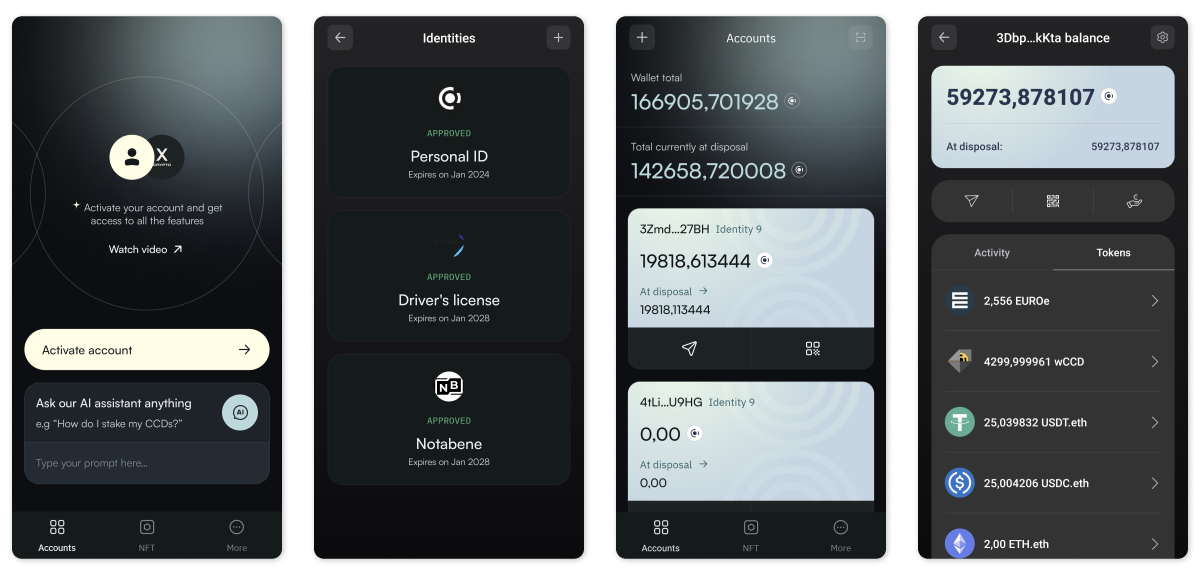
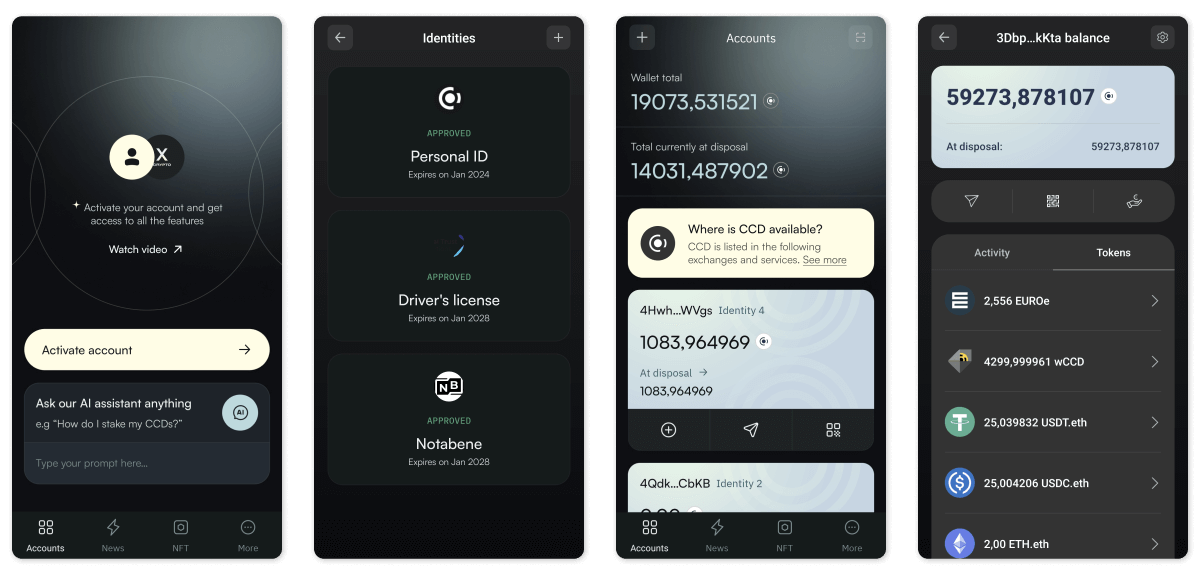
Merge release 1.2.0 (#110)
This is a release branch merge.
The packages are built from the "1.2.0" tag.

---------

diff --git a/CHANGELOG.md b/CHANGELOG.md
@@ -1,49 +1,59 @@
 # Changelog
 
-## [Unreleased]
+## [1.2.0] - 2024-08-27
 
 ### Added
+
 - CCD listings – browse exchanges and services where CCD can be purchased
 - Optional anonymous analytics powered by Matomo
 - Concordium newsfeed
 - Support for company identities created with Global FinReg
 
 ### Fixed
+
 - Visually increasing the balance after sending CCD instead of decreasing it
 - Adding newly created accounts to the address book with a blank name
-- Incorrect text colors in dark theme
+- Incorrect text colors in dark theme on Xiaomi
 
 ### Changed
+
 - The paste button on the recovery phrase input screen is now attached
-to the top of the keyboard hence remains always visible
+  to the top of the keyboard hence remains always visible
 
 ## [1.1.1] - 2024-06-11
 
 ### Changed
+
 - Increased WalletConnect pairing timeout to reduce the number of "Could not connect" errors
 
 ## [1.1.0] - 2024-06-07
 
 ### Removed
+
 - Shielding – now it is only possible to unshield your balances
 
 ### Added
+
 - Ability to unshield your balances from the "More" screen
 - Support for WalletConnect binary messages signing
 - Ability to paste the phrase from the clipboard when importing a wallet
 
 ### Changed
+
 - The "Watch video" link on the welcome screen now opens the account creation tutorial
 
 ### Fixed
+
 - A way to get into an empty wallet without confirming the seed phrase
 
 ### Changed
+
 - Actualized End User License Terms and Privacy Policy URL
 
 ## [1.0.0] - 2024-04-24
 
 ### Added
+
 - Setting up and updating validator pool commission rates
 - Support for WalletConnect CCD transfer requests
 - Ability to see full details of a WalletConnect transaction to sign
@@ -53,19 +63,25 @@ to the top of the keyboard hence remains always visible
 - Display of balance/ownership when adding CIS-2 tokens
 
 ### Removed
+
 - Revealing identity attributes when creating an account
 
 ### Fixed
+
 - An issue where signing a text message through WalletConnect did not work
-- An issue where a dApp could request to get a transaction signed by a different account than the one chosen for the WalletConnect session
+- An issue where a dApp could request to get a transaction signed by a different account than the
+  one chosen for the WalletConnect session
 - Crashing when received unexpected error from an identity provider
 - Exiting the wallet after accepting an identity verification error
 - Incorrect environment name in a private key export file for Mainnet
 - Improper handling of rejected identity verification when setting up a new wallet
-- Showing "Address copied" when copying a transaction hash to the clipboard in the scheduled transfer view
+- Showing "Address copied" when copying a transaction hash to the clipboard in the scheduled
+  transfer view
 - An issue where the identity name was off-center when the edit name icon was visible
-- An issue where exporting transaction logs for an account without any transactions would be stuck at 0%
-- "Invalid WalletConnect request" message repeatedly shown if received a request with unsupported transaction type
+- An issue where exporting transaction logs for an account without any transactions would be stuck
+  at 0%
+- "Invalid WalletConnect request" message repeatedly shown if received a request with unsupported
+  transaction type
 - Exported private key for file-based initial account being incompatible with concordium-client
 - Inability to search for CIS-2 token by ID on contracts with lots of tokens
 - When managing CIS-2 tokens, removing all of them when only unselecting the visible ones
@@ -73,16 +89,24 @@ to the top of the keyboard hence remains always visible
 - Possibility of spamming the app with WalletConnect requests from a malfunctioning dApp
 
 ### Changed
+
 - Suggest running a recovery when facing account or identity creation errors
 - Baker/baking renamed to Validator/validating
-- WalletConnect session proposals are now rejected if the namespace or methods are not supported, or if the wallet contains no accounts.
+- WalletConnect session proposals are now rejected if the namespace or methods are not supported, or
+  if the wallet contains no accounts.
 - WalletConnect transaction signing request now shows the receiver
-(either smart contract or an account) and amount of CCD to send (not including CIS-2 tokens)
+  (either smart contract or an account) and amount of CCD to send (not including CIS-2 tokens)
 - Transfers tab renamed to Activity on the account details screen
-- Identity data tab on the account details screen is no longer shown for accounts without revealed attributes
+- Identity data tab on the account details screen is no longer shown for accounts without revealed
+  attributes
 - CIS-2 tokens with corrupted or missing metadata can no longer be added
 
-[Unreleased]: https://github.com/Concordium/cryptox-android/compare/1.1.1...HEAD
+[Unreleased]: https://github.com/Concordium/cryptox-android/compare/1.2.0...HEAD
+
+[1.2.0]: https://github.com/Concordium/cryptox-android/compare/1.1.1...1.2.0
+
 [1.1.1]: https://github.com/Concordium/cryptox-android/compare/1.1.0...1.1.1
+
 [1.1.0]: https://github.com/Concordium/cryptox-android/compare/1.0.0...1.1.0
+
 [1.0.0]: https://github.com/Concordium/cryptox-android/compare/0.6.1-qa.5...1.0.0
